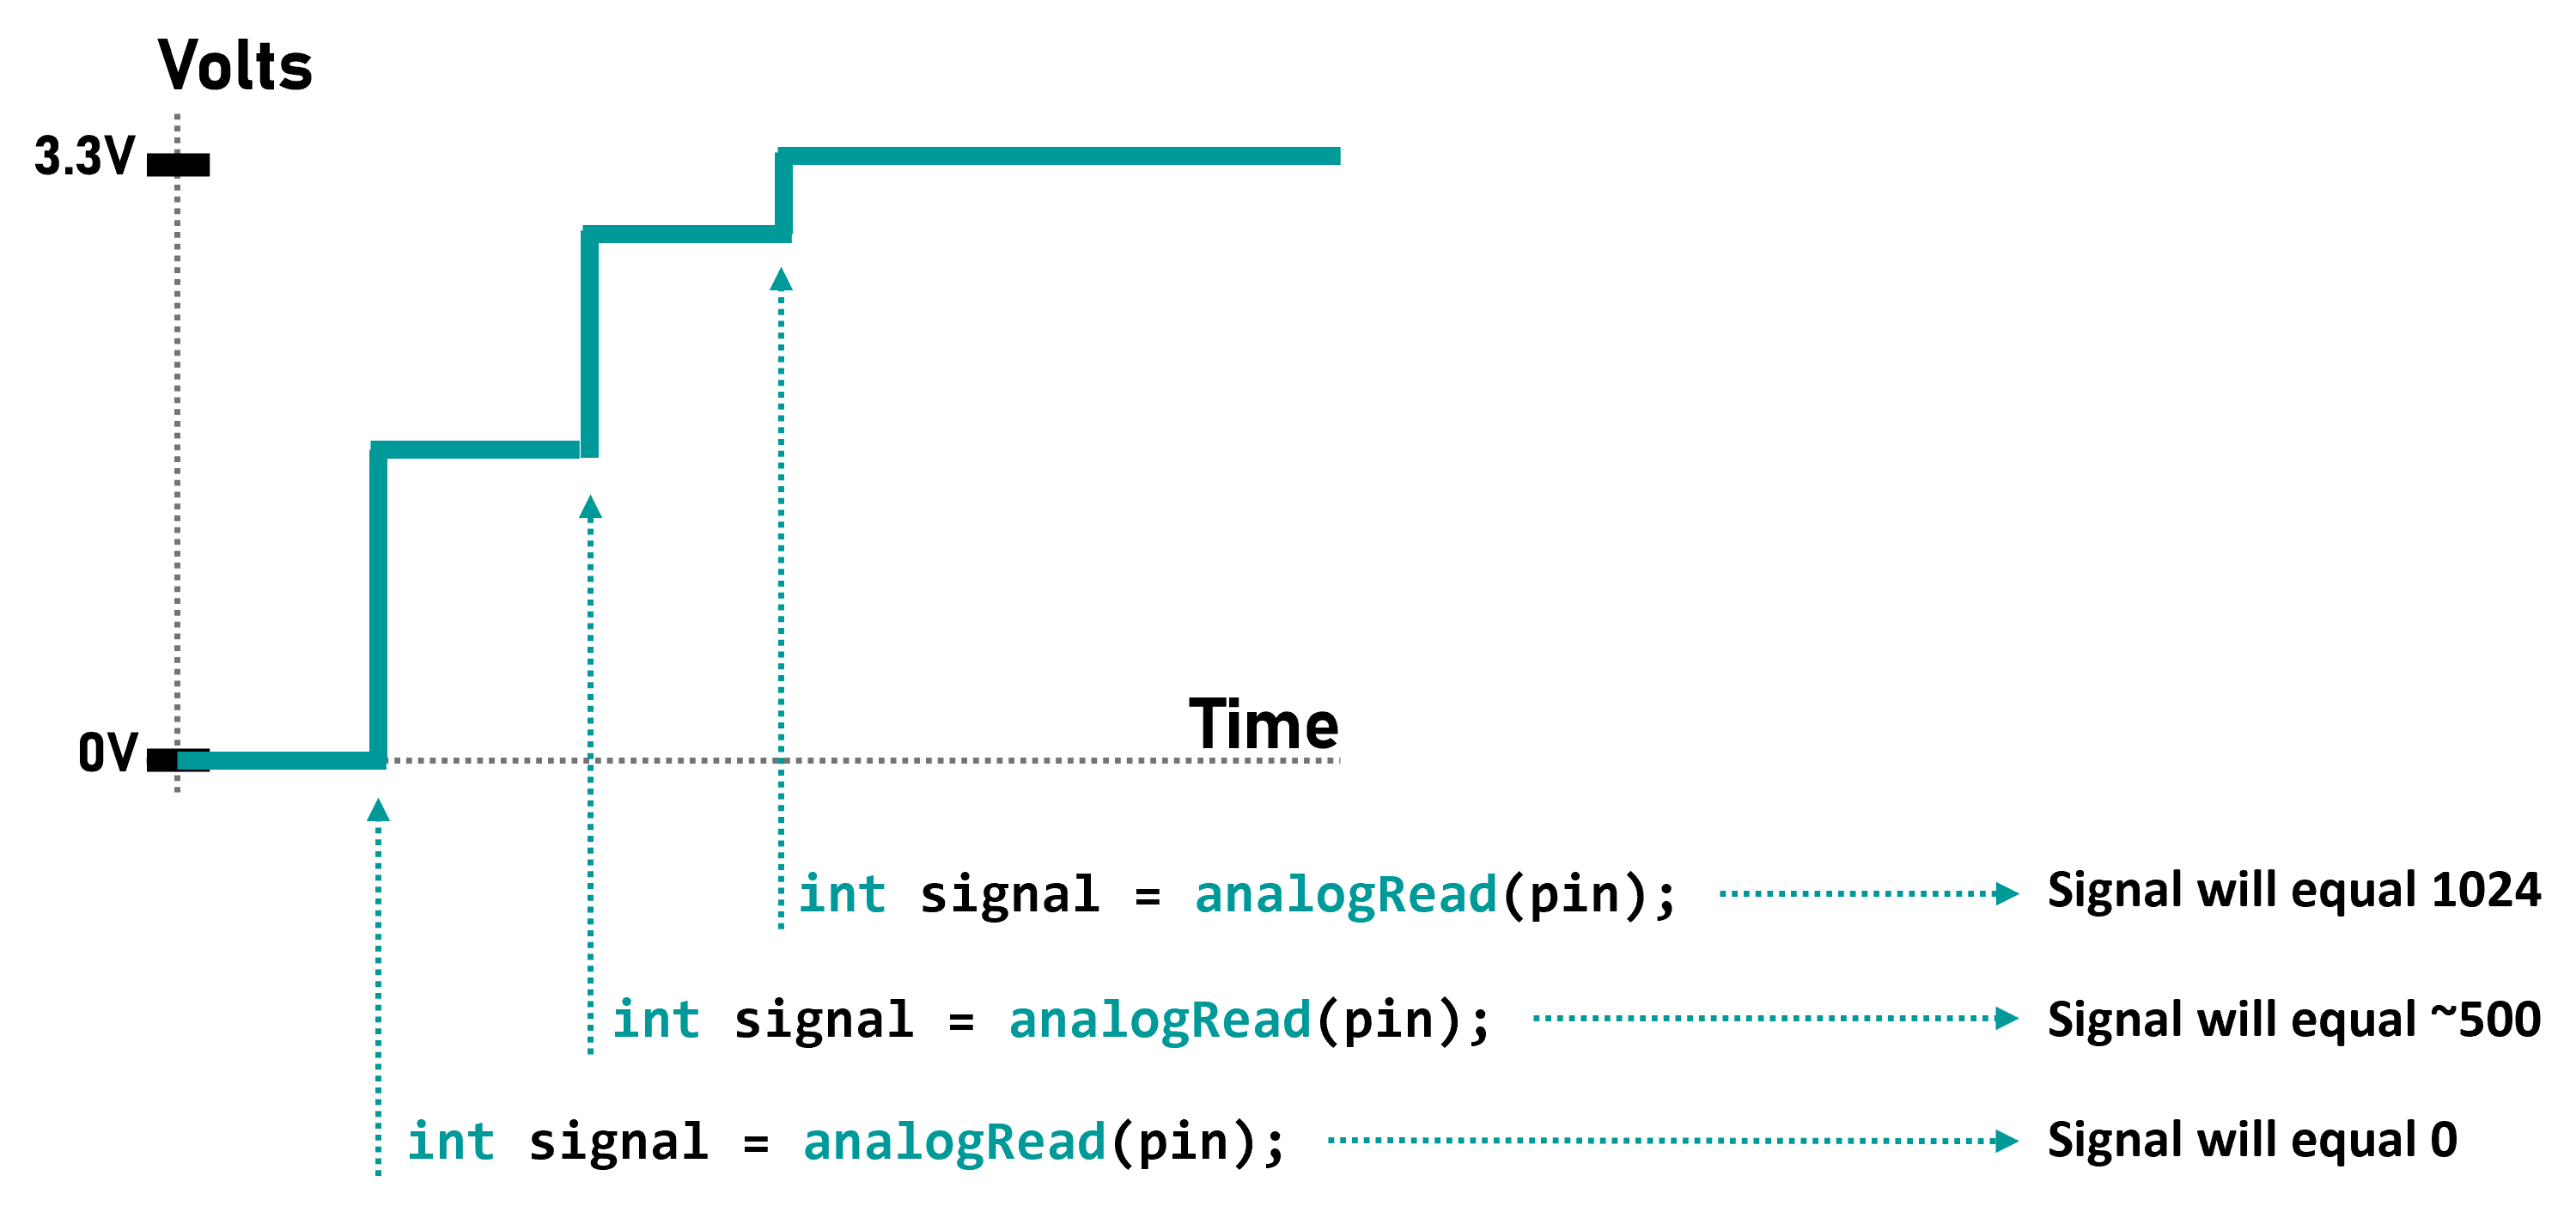
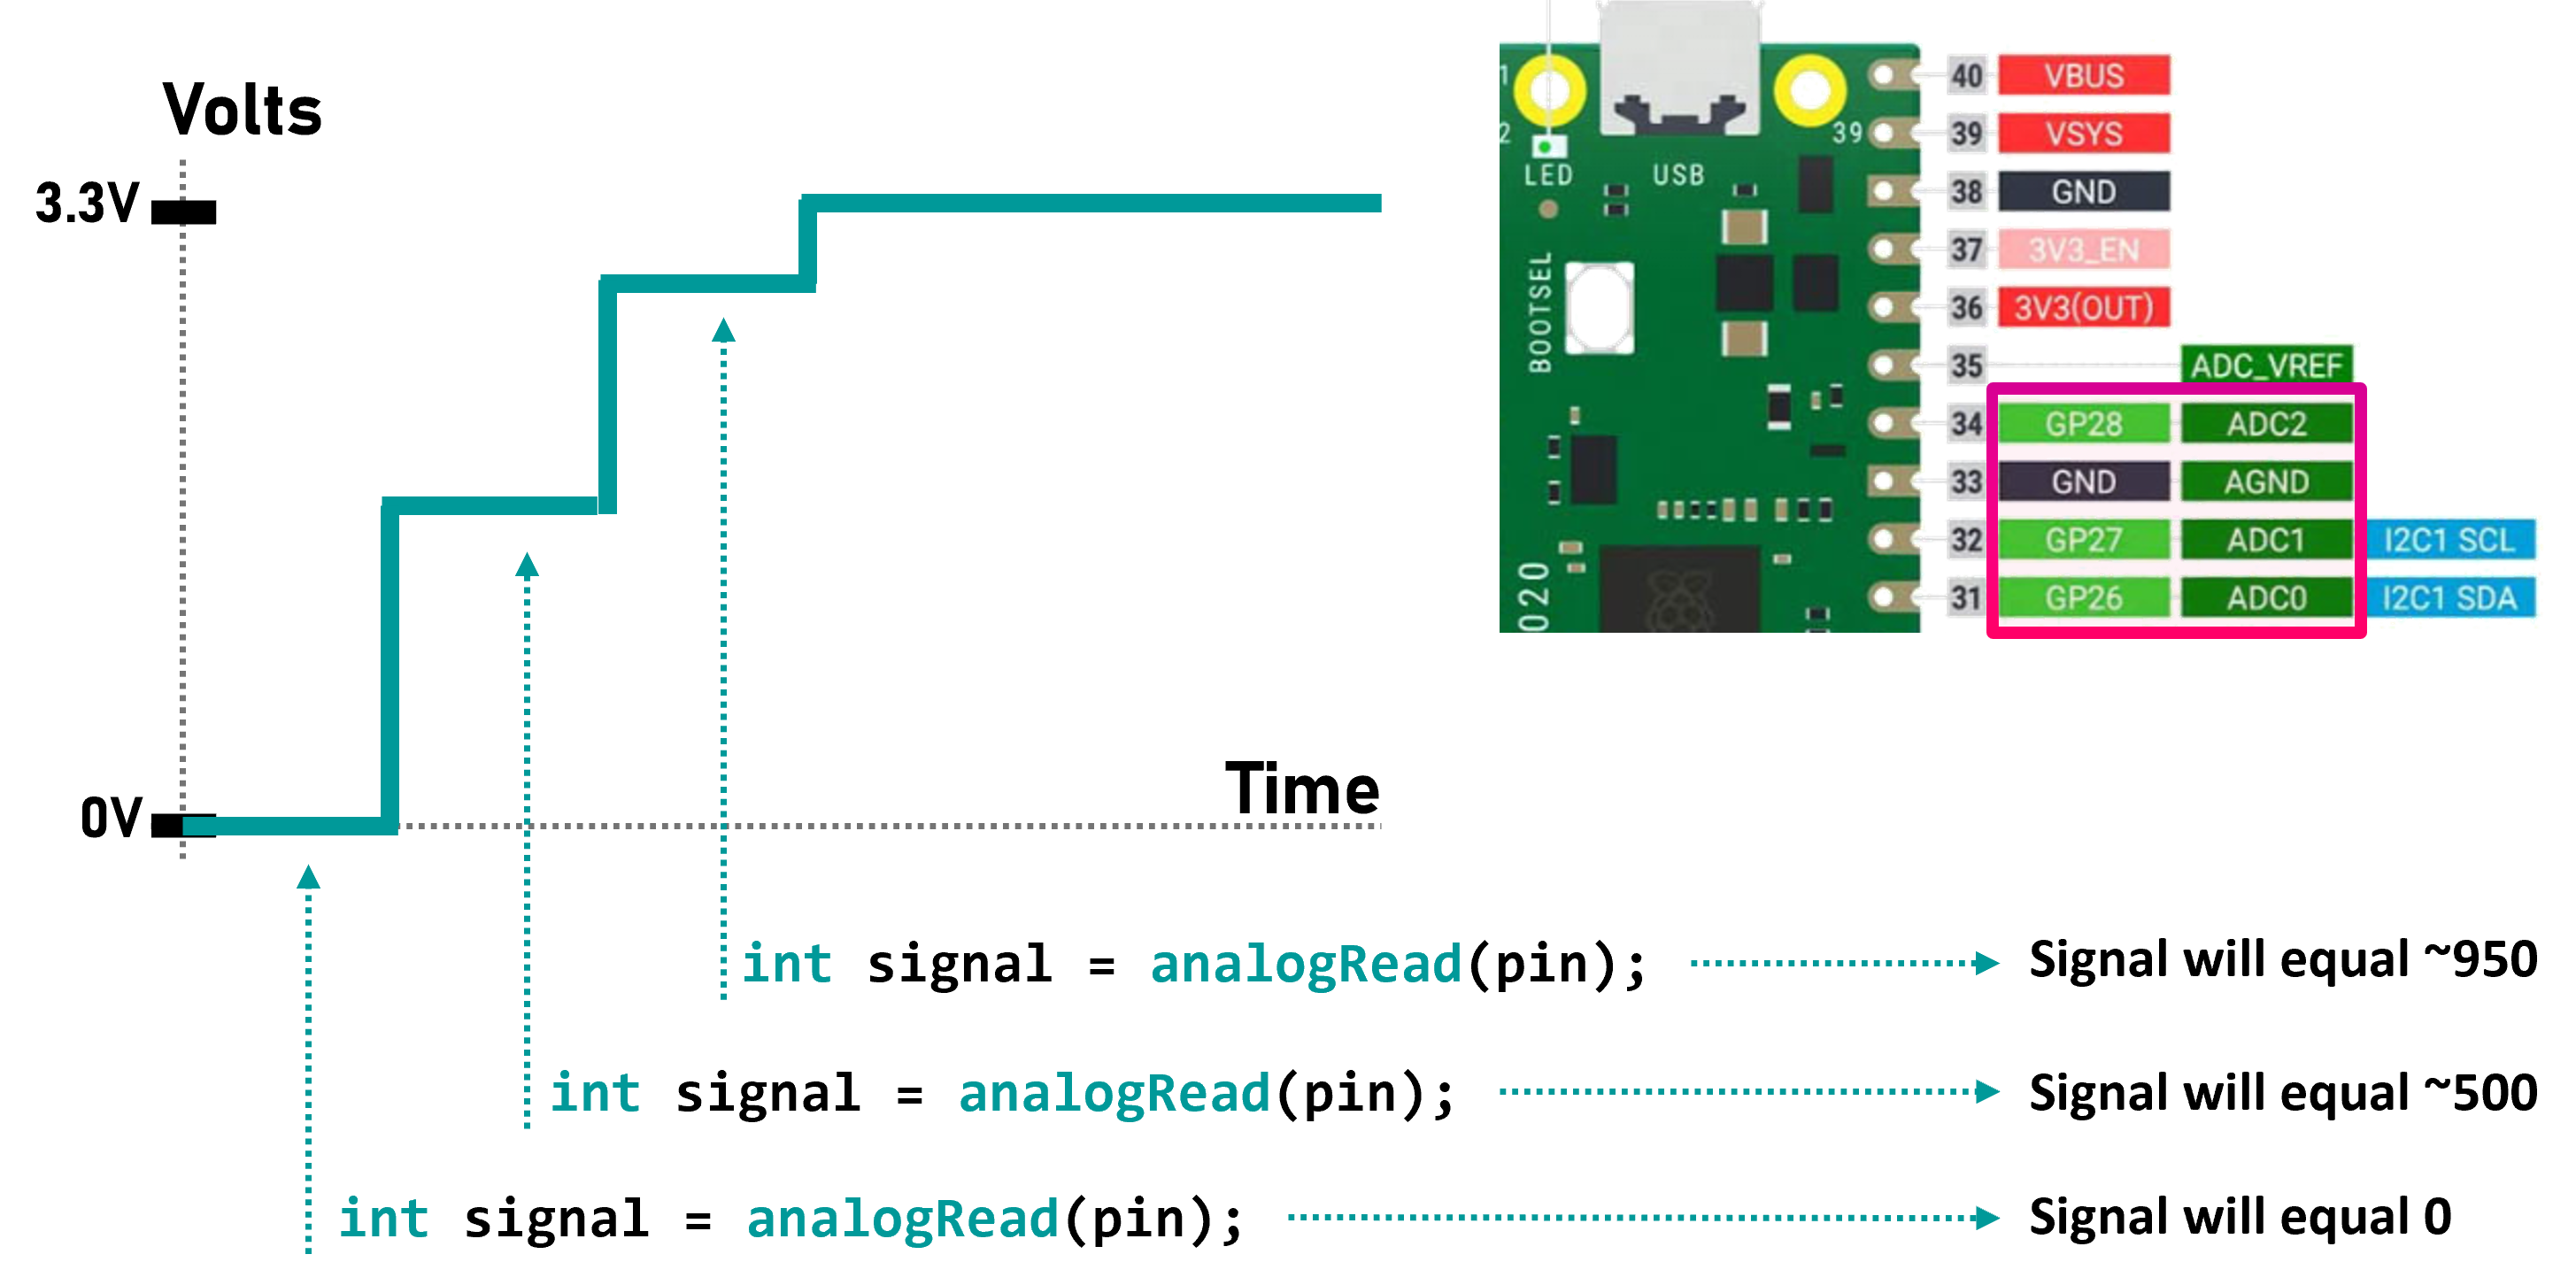
Updates

diff --git a/index.html b/index.html
@@ -39,7 +39,7 @@
         }
       }
   </script>
-    <script type="module" crossorigin src="https://schomath.github.io/academy-backend/assets/index-CCVrIV5s.js"></script>
+    <script type="module" crossorigin src="https://schomath.github.io/academy-backend/assets/index-D5aXtvuq.js"></script>
     <link rel="stylesheet" crossorigin href="https://schomath.github.io/academy-backend/assets/index-8efo0DOc.css">
   </head>
 